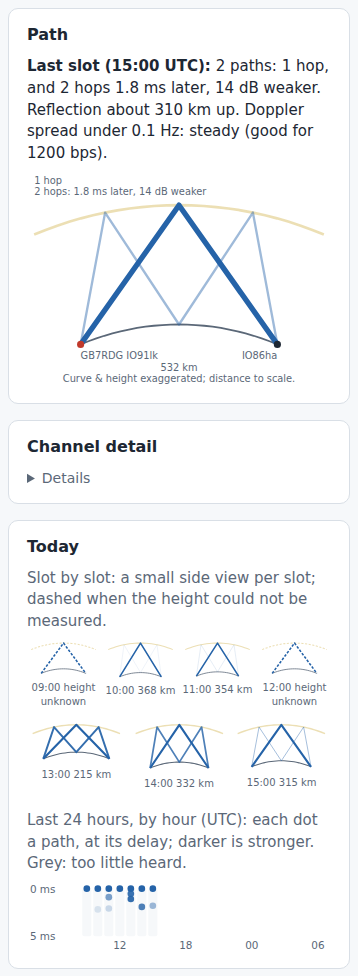
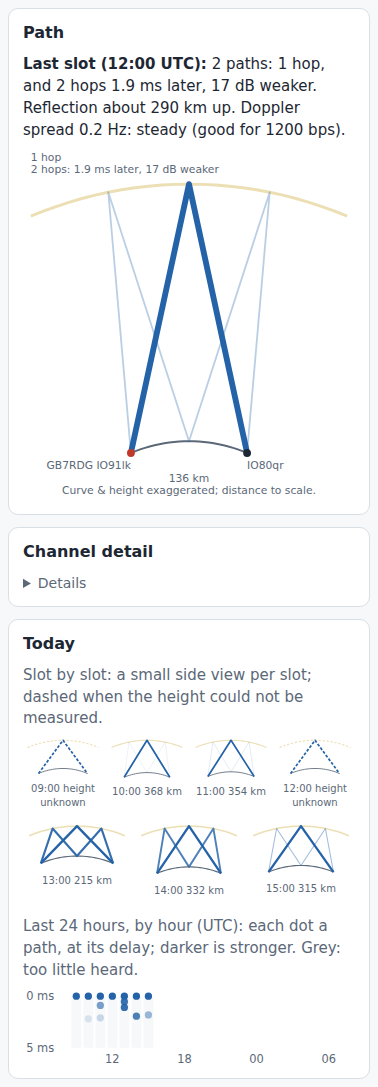
Desktop fixes: picture text size, Today layout, real demo data
(Coordinator review, 2026-10-09)

The Path tile's SVG scaled to the full width of its two-column tile,
so its text (the ray legend, the end labels, the scale note) grew
well past ordinary small print on a wide screen. The picture's own
display width is now capped (roughly matching the viewBox's own
units, so the text renders close to its authored size) and centred,
rather than stretching with the tile.

The Today tile sat alone at half width on desktop, with the other
column empty beside it: it now spans the full row, so the day strip
and the 24 hour dot chart sit side by side.

The end labels (GB7RDG IO91lk and the far end's locator) could also
collide on a short path: a real layer height can make the reflecting
layer dominate the picture's width far more than a short ground track
does, leaving the two ends closer together than their labels are
wide. They now grow away from each other instead of towards each
other when there is not enough room between them.

The demo's current slot is a real recording now (the Wessex burst
from GB7RDG's 16:00 UTC slot on 2026-10-05, already used elsewhere in
the test suite), run through the real Synthesise -> Picture ->
Summarise pipeline is replaced by the real BurstChannel.Measure ->
ChannelAnalysis.Analyse -> ChannelReport.Summarise one: a synthetic
channel's Doppler spread, fading and coherence were unrealistically
clean for a demo meant to show Tom real figures.

diff --git a/src/Mailcast.Receiver/Web/index.html b/src/Mailcast.Receiver/Web/index.html
@@ -86,6 +86,10 @@
   #updateCopy { padding: 4px 12px; }
   #channelPath svg, #channelDetailBody svg, #channelToday svg { width: 100%; height: auto; display: block; margin-top: 8px; }
   #channelPath svg text, #channelDetailBody svg text, #channelToday svg text { font: 11px system-ui, sans-serif; fill: var(--soft); }
+  /* The Path tile's picture is as wide as its text labels were drawn for (the SVG's own viewBox
+     units): on the Path tile's full two-column width, letting it keep growing with the tile would
+     make the ray labels and the scale note huge rather than ordinary small print. */
+  #channelPath svg { max-width: 420px; margin-left: auto; margin-right: auto; }
   #channelPath .head { font-weight: 600; }
   /* the daily report opt-in, near the top: a panel while it is off, one line once it is on */
   #optIn { margin: 10px 24px 0; padding: 12px 16px; background: #edf7f0; border: 1px solid #b5dbc1; border-radius: 10px; }
@@ -238,7 +242,7 @@ MCR1 0.6.0 IO80qr wessex.zapto.org 12/12 1:BBS1
     </details>
   </section>
 
-  <section>
+  <section class="wide">
     <h2>Today</h2>
     <div id="channelToday" class="muted">Nothing measured yet.</div>
   </section>

diff --git a/src/Mailcast.Receiver/Web/ChannelPicture.cs b/src/Mailcast.Receiver/Web/ChannelPicture.cs
@@ -184,11 +184,20 @@ internal static class ChannelPicture
             var start = ground[0];
             var end = ground[^1];
             double midX = (Sx(start) + Sx(end)) / 2;
+            // Normally GB7RDG's label grows in towards the middle and the other end's grows in
+            // the other way, which reads naturally when the two ends are well apart. On a short
+            // path the reflecting layer's fixed real height can dominate the picture's width far
+            // more than the ground track does, leaving the two ends closer together than their
+            // labels are wide: then both instead grow outward, away from each other.
+            string endLabel = endLocator ?? "receiver";
+            bool roomInward = (Sx(end) - Sx(start)) >= (("GB7RDG IO91lk".Length + endLabel.Length) * 7.0) + 10;
+            string startAttrs = roomInward ? "" : " text-anchor=\"end\"";
+            string endAttrs = roomInward ? " text-anchor=\"end\"" : "";
             sb.Append(CultureInfo.InvariantCulture,
                 $"<circle cx=\"{F(Sx(start))}\" cy=\"{F(Sy(start))}\" r=\"4\" fill=\"var(--bad)\"/>"
-                + $"<text x=\"{F(Sx(start))}\" y=\"{F(Sy(start) + 16)}\" font-size=\"11\">GB7RDG IO91lk</text>"
+                + $"<text x=\"{F(Sx(start))}\" y=\"{F(Sy(start) + 16)}\" font-size=\"11\"{startAttrs}>GB7RDG IO91lk</text>"
                 + $"<circle cx=\"{F(Sx(end))}\" cy=\"{F(Sy(end))}\" r=\"4\" fill=\"var(--ink)\"/>"
-                + $"<text x=\"{F(Sx(end))}\" y=\"{F(Sy(end) + 16)}\" text-anchor=\"end\" font-size=\"11\">{WebUtility.HtmlEncode(endLocator ?? "receiver")}</text>");
+                + $"<text x=\"{F(Sx(end))}\" y=\"{F(Sy(end) + 16)}\" font-size=\"11\"{endAttrs}>{WebUtility.HtmlEncode(endLabel)}</text>");
             bool anyNominal = rays.Any(r => !r.HeightKnown);
             // Kept short, and split onto its own lines, rather than one long line: SVG text does
             // not wrap, so a note this length in one line would run off the picture's width.

diff --git a/tests/Mailcast.Receiver.Tests/ChannelPictureTests.cs b/tests/Mailcast.Receiver.Tests/ChannelPictureTests.cs
@@ -194,6 +194,21 @@ public class ChannelPictureTests
     }
 
     [Fact]
+    public void Svg_EndLabelsGrowOutward_WhenAShortPathLeavesNoRoomBetweenThem()
+    {
+        // A short path with a tall real layer height: the reflecting layer dominates the
+        // picture's width far more than the ground track does, so the two ends land closer
+        // together than "GB7RDG IO91lk" and the far end's locator are wide. Both labels must then
+        // grow away from each other, not towards each other (where they would collide).
+        var report = Report(136, 293, "IO80qr", Mode("1F", 0, 0), Mode("2F", 1.93, -17.2));
+        string svg = ChannelPicture.Svg(report, "IO80qr", 340, withLabels: true)!;
+        Assert.Contains(">GB7RDG IO91lk</text>", svg, StringComparison.Ordinal);
+        Assert.Contains("font-size=\"11\" text-anchor=\"end\">GB7RDG IO91lk</text>", svg, StringComparison.Ordinal);
+        Assert.Contains("font-size=\"11\">IO80qr</text>", svg, StringComparison.Ordinal);
+        Assert.DoesNotContain("font-size=\"11\" text-anchor=\"end\">IO80qr</text>", svg, StringComparison.Ordinal);
+    }
+
+    [Fact]
     public void Svg_IsWellFormedAndFinite_AtPhoneAndDesktopWidths()
     {
         var report = Report(534, 354, "IO86ha",
